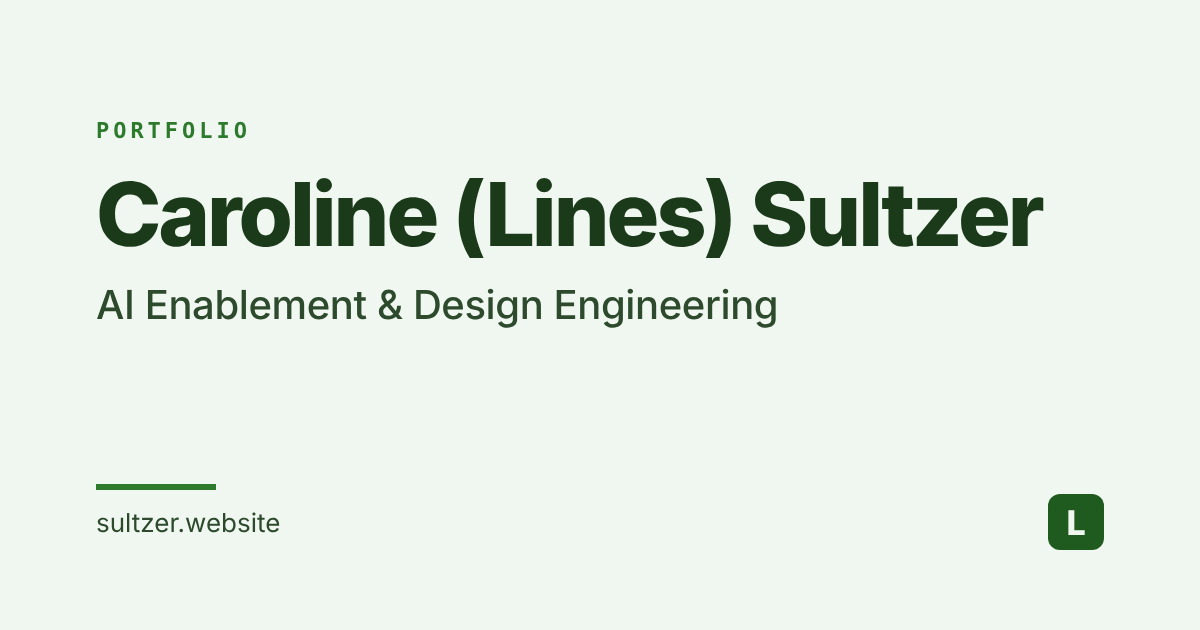
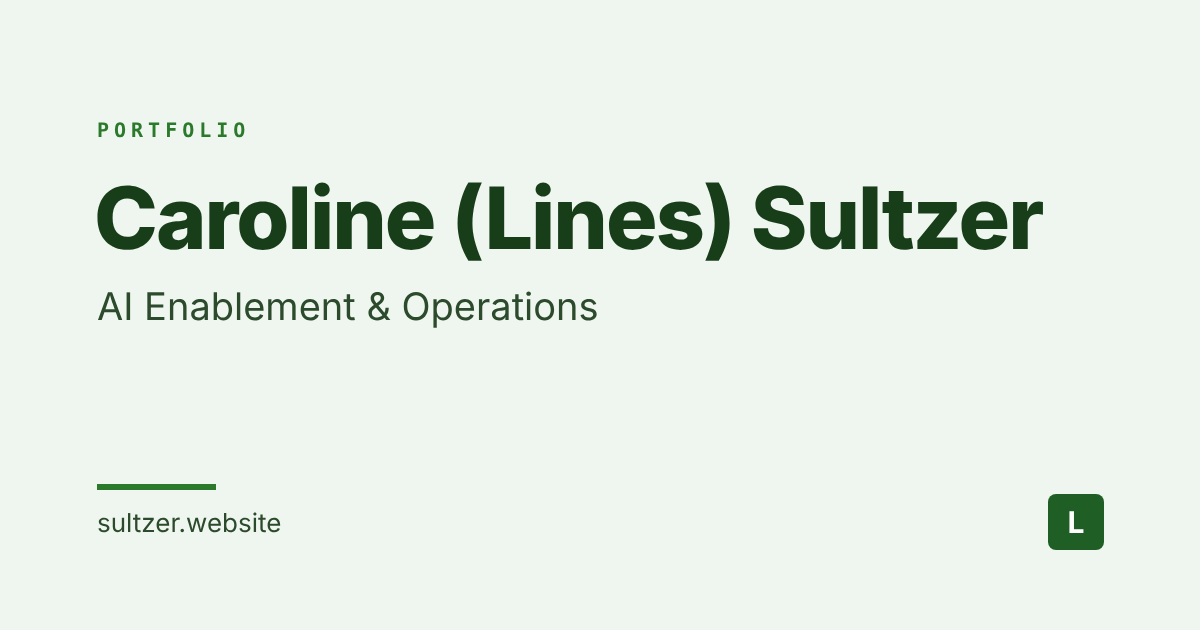
Reposition site as AI Enablement & Operations; open to remote and Pittsburgh hybrid
Claude-Session: https://claude.ai/code/session_01Awp34VfsDdoKSSqbVQi6wX

diff --git a/index.html b/index.html
@@ -7,18 +7,18 @@
         <link rel="preconnect" href="https://fonts.gstatic.com" crossorigin>
         <link href="https://fonts.googleapis.com/css2?family=Lato:wght@300;400;700;900&display=swap" rel="stylesheet">
         
-        <title>Caroline (Lines) Sultzer | AI Enablement &amp; Design Engineering</title>
-        <meta name="title" content="Caroline (Lines) Sultzer | AI Enablement &amp; Design Engineering" />
-        <meta name="description" content="Caroline (Lines) Sultzer helps teams use AI safely and builds the tools to do it. AI enablement, AI governance and accessible design engineering in React, Next.js and TypeScript." />
-        <meta name="keywords" content="Lines Sultzer, Caroline Sultzer, AI enablement, AI governance, design engineer, accessibility, WCAG, React, Next.js, TypeScript" />
+        <title>Caroline (Lines) Sultzer | AI Enablement &amp; Operations</title>
+        <meta name="title" content="Caroline (Lines) Sultzer | AI Enablement &amp; Operations" />
+        <meta name="description" content="Caroline (Lines) Sultzer helps teams use AI safely and builds the tools to do it. AI enablement, AI governance and operations for small teams, plus the tools to support them." />
+        <meta name="keywords" content="Lines Sultzer, Caroline Sultzer, AI enablement, AI governance, operations, accessibility, WCAG, React, Next.js, TypeScript" />
         <meta name="author" content="Caroline Lines Sultzer" />
         <meta name="robots" content="index, follow" />
         <link rel="canonical" href="https://sultzer.website/" />
         
         <meta property="og:type" content="website" />
         <meta property="og:url" content="https://sultzer.website/" />
-        <meta property="og:title" content="Lines Sultzer | Caroline Sultzer | AI Enablement &amp; Design Engineering" />
-        <meta property="og:description" content="Caroline (Lines) Sultzer helps teams use AI safely and builds the tools to do it. AI enablement, AI governance and accessible design engineering in React, Next.js and TypeScript." />
+        <meta property="og:title" content="Lines Sultzer | Caroline Sultzer | AI Enablement &amp; Operations" />
+        <meta property="og:description" content="Caroline (Lines) Sultzer helps teams use AI safely and builds the tools to do it. AI enablement, AI governance and operations for small teams, plus the tools to support them." />
         <meta property="og:site_name" content="Lines Sultzer Portfolio" />
         <link rel="icon" href="/favicon.svg" type="image/svg+xml" />
         <link rel="icon" href="/favicon.ico" sizes="any" />
@@ -26,13 +26,13 @@
         <meta property="og:image" content="https://sultzer.website/assets/images/og-image.png" />
         <meta property="og:image:width" content="1200" />
         <meta property="og:image:height" content="630" />
-        <meta property="og:image:alt" content="Caroline (Lines) Sultzer, AI Enablement and Design Engineering. sultzer.website" />
+        <meta property="og:image:alt" content="Caroline (Lines) Sultzer, AI Enablement and Operations. sultzer.website" />
         <meta name="twitter:image" content="https://sultzer.website/assets/images/og-image.png" />
         
         <meta name="twitter:card" content="summary_large_image" />
         <meta name="twitter:url" content="https://sultzer.website/" />
-        <meta name="twitter:title" content="Lines Sultzer | Caroline Sultzer | AI Enablement &amp; Design Engineering" />
-        <meta name="twitter:description" content="Caroline (Lines) Sultzer helps teams use AI safely and builds the tools to do it. AI enablement, AI governance and accessible design engineering in React, Next.js and TypeScript." />
+        <meta name="twitter:title" content="Lines Sultzer | Caroline Sultzer | AI Enablement &amp; Operations" />
+        <meta name="twitter:description" content="Caroline (Lines) Sultzer helps teams use AI safely and builds the tools to do it. AI enablement, AI governance and operations for small teams, plus the tools to support them." />
         
         <script type="application/ld+json">
         {
@@ -41,8 +41,8 @@
           "name": "Lines Sultzer",
           "alternateName": "Caroline Sultzer",
           "url": "https://sultzer.website",
-          "jobTitle": "AI Enablement & Design Engineering",
-          "description": "Caroline (Lines) Sultzer helps teams use AI safely and builds the tools to do it. AI enablement, AI governance and accessible design engineering in React, Next.js and TypeScript.",
+          "jobTitle": "AI Enablement & Operations",
+          "description": "Caroline (Lines) Sultzer helps teams use AI safely and builds the tools to do it. AI enablement, AI governance and operations for small teams, plus the tools to support them.",
           "email": "linessultzer@gmail.com",
           "sameAs": [
             "https://www.linkedin.com/in/lines-sultzer/",`
@@ -86,12 +86,12 @@
  
             <section class="hero" aria-labelledby="hero-heading">
                 <header class="hero__header">
-                    <h1 id="hero-heading" class="hero__title">Caroline (Lines) Sultzer <span class="hero__role">AI Enablement &amp; Design Engineering</span></h1>
-                    <p class="hero__subhead">I help teams use AI safely, and I build the tools to do it. I work in React, Next.js and TypeScript.</p>
+                    <h1 id="hero-heading" class="hero__title">Caroline (Lines) Sultzer <span class="hero__role">AI Enablement &amp; Operations</span></h1>
+                    <p class="hero__subhead">I help teams use AI safely, and I build the tools to do it. I run operations, data and AI rollout for small teams.</p>
                 </header>
                 <p class="hero__now"><span class="hero__now-label">Now</span>Leading AI governance at Dance/NYC and building a SaaS product for art galleries.</p>
                 <div class="hero__status-wrap">
-                    <span class="hero__status-tag">Open to Remote Roles</span>
+                    <span class="hero__status-tag">Open to remote and Pittsburgh hybrid roles</span>
                 </div>
                 <div class="hero__actions">
                     <a href="#work" class="btn btn--primary">View Work</a>
@@ -112,7 +112,7 @@
                 <h2 id="about-heading" class="home-section__title">About</h2>
                 <div class="about-intro__inner">
                     <div class="about-intro__bio">
-                        <p>I’m a design engineer working where AI meets real workflows. I build accessible interfaces and the systems that sit behind them.</p>
+                        <p>I work where AI meets real workflows. I build accessible tools and the systems that sit behind them.</p>
                         <p>At Dance/NYC I’m Operations Coordinator and I run the tech side of the org. That means writing our AI governance framework, leading the rollout on Claude, keeping our data clean, shipping UI updates and building the trackers and tools that let a small team scale.</p>
                         <p>For the last two years I’ve run inline/access, my own studio, and I’m building a SaaS product for art galleries from the ground up. I build in React, Vue and plain JavaScript, with a full-stack Java background in API design, PostgreSQL and backend architecture. I like taking a design from Figma all the way to semantic, WCAG-compliant code that ships.</p>
                         <p>I came to engineering from art and fabrication at Cooper Union, where I learned to build with my hands and troubleshoot whatever broke. Living with a disability is a big part of why I test for access first. I’m a Deque Digital Accessibility scholarship recipient and working toward my IAAP certification.</p>
@@ -125,7 +125,7 @@
 
             <section class="cta" aria-labelledby="cta-heading">
                 <h2 id="cta-heading" class="cta__title">Let's Connect.</h2>
-                <p class="cta__intro">I'm looking for remote design engineering and AI enablement roles where accessibility and real adoption matter.</p>
+                <p class="cta__intro">I'm looking for AI enablement and operations roles where accessibility and real adoption matter.</p>
                 <p class="cta__action">
                     <a href="mailto:linessultzer@gmail.com" class="cta__link">Send an Email<span class="cta__link-icon" aria-hidden="true">→</span></a>
                 </p>

diff --git a/about.html b/about.html
@@ -7,10 +7,10 @@
         <link rel="preconnect" href="https://fonts.gstatic.com" crossorigin>
         <link href="https://fonts.googleapis.com/css2?family=Lato:wght@300;400;700;900&display=swap" rel="stylesheet">
         
-        <title>About Lines Sultzer | Caroline Sultzer | AI Enablement &amp; Design Engineering</title>
-        <meta name="title" content="About Lines Sultzer | Caroline Sultzer | AI Enablement &amp; Design Engineering" />
-        <meta name="description" content="About Caroline (Lines) Sultzer: AI enablement and design engineering, AI governance at Dance/NYC, and accessible web work." />
-        <meta name="keywords" content="Lines Sultzer, Caroline Sultzer, AI enablement, AI governance, design engineer, accessibility, WCAG, React, Next.js, TypeScript" />
+        <title>About Lines Sultzer | Caroline Sultzer | AI Enablement &amp; Operations</title>
+        <meta name="title" content="About Lines Sultzer | Caroline Sultzer | AI Enablement &amp; Operations" />
+        <meta name="description" content="About Caroline (Lines) Sultzer: AI enablement and operations, AI governance at Dance/NYC, and accessible web work." />
+        <meta name="keywords" content="Lines Sultzer, Caroline Sultzer, AI enablement, AI governance, operations, accessibility, WCAG, React, Next.js, TypeScript" />
         <meta name="author" content="Lines Sultzer" />
         <meta name="robots" content="index, follow" />
         <link rel="canonical" href="https://sultzer.website/about" />
@@ -18,8 +18,8 @@
         <!-- Open Graph / Facebook -->
         <meta property="og:type" content="website" />
         <meta property="og:url" content="https://sultzer.website/about" />
-        <meta property="og:title" content="About Lines Sultzer | Caroline Sultzer | AI Enablement &amp; Design Engineering" />
-        <meta property="og:description" content="About Caroline (Lines) Sultzer: AI enablement and design engineering, AI governance at Dance/NYC, and accessible web work." />
+        <meta property="og:title" content="About Lines Sultzer | Caroline Sultzer | AI Enablement &amp; Operations" />
+        <meta property="og:description" content="About Caroline (Lines) Sultzer: AI enablement and operations, AI governance at Dance/NYC, and accessible web work." />
         <meta property="og:site_name" content="Lines Sultzer Portfolio" />
         <link rel="icon" href="/favicon.svg" type="image/svg+xml" />
         <link rel="icon" href="/favicon.ico" sizes="any" />
@@ -27,14 +27,14 @@
         <meta property="og:image" content="https://sultzer.website/assets/images/og-image.png" />
         <meta property="og:image:width" content="1200" />
         <meta property="og:image:height" content="630" />
-        <meta property="og:image:alt" content="Caroline (Lines) Sultzer, AI Enablement and Design Engineering. sultzer.website" />
+        <meta property="og:image:alt" content="Caroline (Lines) Sultzer, AI Enablement and Operations. sultzer.website" />
         <meta name="twitter:image" content="https://sultzer.website/assets/images/og-image.png" />
         
         <!-- Twitter -->
         <meta name="twitter:card" content="summary_large_image" />
         <meta name="twitter:url" content="https://sultzer.website/about" />
-        <meta name="twitter:title" content="About Lines Sultzer | Caroline Sultzer | AI Enablement &amp; Design Engineering" />
-        <meta name="twitter:description" content="About Caroline (Lines) Sultzer: AI enablement and design engineering, AI governance at Dance/NYC, and accessible web work." />
+        <meta name="twitter:title" content="About Lines Sultzer | Caroline Sultzer | AI Enablement &amp; Operations" />
+        <meta name="twitter:description" content="About Caroline (Lines) Sultzer: AI enablement and operations, AI governance at Dance/NYC, and accessible web work." />
         
         <!-- Structured Data -->
         <script type="application/ld+json">
@@ -44,8 +44,8 @@
           "name": "Lines Sultzer",
           "alternateName": "Caroline Sultzer",
           "url": "https://sultzer.website/about",
-          "jobTitle": "AI Enablement & Design Engineering",
-          "description": "About Caroline (Lines) Sultzer: AI enablement and design engineering, AI governance at Dance/NYC, and accessible web work.",
+          "jobTitle": "AI Enablement & Operations",
+          "description": "About Caroline (Lines) Sultzer: AI enablement and operations, AI governance at Dance/NYC, and accessible web work.",
           "email": "linessultzer@gmail.com",
           "sameAs": [
             "https://www.linkedin.com/in/lines-sultzer/",
@@ -85,7 +85,7 @@
                 <h1 id="about-heading" class="about-intro__title">About</h1>
                 <div class="about-intro__inner">
                     <div class="about-intro__bio">
-                        <p>I’m a design engineer working where AI meets real workflows. I build accessible interfaces and the systems that sit behind them.</p>
+                        <p>I work where AI meets real workflows. I build accessible tools and the systems that sit behind them.</p>
                         <p>At Dance/NYC I’m Operations Coordinator and I run the tech side of the org. That means writing our AI governance framework, leading the rollout on Claude, keeping our data clean, shipping UI updates and building the trackers and tools that let a small team scale.</p>
                         <p>For the last two years I’ve run inline/access, my own studio, and I’m building a SaaS product for art galleries from the ground up. I build in React, Vue and plain JavaScript, with a full-stack Java background in API design, PostgreSQL and backend architecture. I like taking a design from Figma all the way to semantic, WCAG-compliant code that ships.</p>
                         <p>I came to engineering from art and fabrication at Cooper Union, where I learned to build with my hands and troubleshoot whatever broke. Living with a disability is a big part of why I test for access first. I’m a Deque Digital Accessibility scholarship recipient and working toward my IAAP certification.</p>

diff --git a/work.html b/work.html
@@ -8,8 +8,8 @@
         <link href="https://fonts.googleapis.com/css2?family=Lato:wght@300;400;700;900&display=swap" rel="stylesheet">
         
         <!-- Primary Meta Tags -->
-        <title>Work Portfolio | Lines Sultzer | Caroline Sultzer | AI Enablement &amp; Design Engineering</title>
-        <meta name="title" content="Work Portfolio | Lines Sultzer | Caroline Sultzer | AI Enablement &amp; Design Engineering" />
+        <title>Work Portfolio | Lines Sultzer | Caroline Sultzer | AI Enablement &amp; Operations</title>
+        <meta name="title" content="Work Portfolio | Lines Sultzer | Caroline Sultzer | AI Enablement &amp; Operations" />
         <meta name="description" content="Portfolio of digital projects by Lines Sultzer (Caroline Sultzer) - Full-stack and front-end engineering projects exploring accessibility, interaction design, and modern web development." />
         <meta name="keywords" content="Lines Sultzer, Caroline Sultzer, portfolio, projects, full-stack developer, front-end developer, JavaScript projects, React projects, web development, accessible web design, software engineering portfolio" />
         <meta name="author" content="Lines Sultzer" />
@@ -19,7 +19,7 @@
         <!-- Open Graph / Facebook -->
         <meta property="og:type" content="website" />
         <meta property="og:url" content="https://sultzer.website/work" />
-        <meta property="og:title" content="Work Portfolio | Lines Sultzer | Caroline Sultzer | AI Enablement &amp; Design Engineering" />
+        <meta property="og:title" content="Work Portfolio | Lines Sultzer | Caroline Sultzer | AI Enablement &amp; Operations" />
         <meta property="og:description" content="Portfolio of digital projects exploring accessibility, interaction design, and modern front-end engineering." />
         <meta property="og:site_name" content="Lines Sultzer Portfolio" />
         <link rel="icon" href="/favicon.svg" type="image/svg+xml" />
@@ -28,13 +28,13 @@
         <meta property="og:image" content="https://sultzer.website/assets/images/og-image.png" />
         <meta property="og:image:width" content="1200" />
         <meta property="og:image:height" content="630" />
-        <meta property="og:image:alt" content="Caroline (Lines) Sultzer, AI Enablement and Design Engineering. sultzer.website" />
+        <meta property="og:image:alt" content="Caroline (Lines) Sultzer, AI Enablement and Operations. sultzer.website" />
         <meta name="twitter:image" content="https://sultzer.website/assets/images/og-image.png" />
         
         <!-- Twitter -->
         <meta name="twitter:card" content="summary_large_image" />
         <meta name="twitter:url" content="https://sultzer.website/work" />
-        <meta name="twitter:title" content="Work Portfolio | Lines Sultzer | Caroline Sultzer | AI Enablement &amp; Design Engineering" />
+        <meta name="twitter:title" content="Work Portfolio | Lines Sultzer | Caroline Sultzer | AI Enablement &amp; Operations" />
         <meta name="twitter:description" content="Portfolio of digital projects exploring accessibility, interaction design, and modern front-end engineering." />
         
         <!-- Structured Data -->
@@ -50,7 +50,7 @@
             "name": "Lines Sultzer",
             "alternateName": "Caroline Sultzer",
             "url": "https://sultzer.website",
-            "jobTitle": "AI Enablement & Design Engineering"
+            "jobTitle": "AI Enablement & Operations"
           }
         }
         </script>

diff --git a/vending-machine.html b/vending-machine.html
@@ -7,8 +7,8 @@
         <link rel="preconnect" href="https://fonts.gstatic.com" crossorigin>
         <link href="https://fonts.googleapis.com/css2?family=Lato:wght@300;400;700;900&display=swap" rel="stylesheet">
         
-        <title>Vending Machine Web App Case Study | Lines Sultzer | Caroline Sultzer | AI Enablement &amp; Design Engineering</title>
-        <meta name="title" content="Vending Machine Web App Case Study | Lines Sultzer | Caroline Sultzer | AI Enablement &amp; Design Engineering" />
+        <title>Vending Machine Web App Case Study | Lines Sultzer | Caroline Sultzer | AI Enablement &amp; Operations</title>
+        <meta name="title" content="Vending Machine Web App Case Study | Lines Sultzer | Caroline Sultzer | AI Enablement &amp; Operations" />
         <meta name="description" content="Case study: Vending Machine Web App by Lines Sultzer (Caroline Sultzer) - A full-stack CLI application demonstrating clean backend design, multi-language fluency (Java & Python), and system refactoring across stacks." />
         <meta name="keywords" content="Lines Sultzer, Caroline Sultzer, vending machine, case study, full-stack development, Java, Python, CLI application, backend engineering, Tech Elevator, portfolio" />
         <meta name="author" content="Lines Sultzer" />
@@ -26,7 +26,7 @@
         <meta property="og:image" content="https://sultzer.website/assets/images/og-image.png" />
         <meta property="og:image:width" content="1200" />
         <meta property="og:image:height" content="630" />
-        <meta property="og:image:alt" content="Caroline (Lines) Sultzer, AI Enablement and Design Engineering. sultzer.website" />
+        <meta property="og:image:alt" content="Caroline (Lines) Sultzer, AI Enablement and Operations. sultzer.website" />
         <meta name="twitter:image" content="https://sultzer.website/assets/images/og-image.png" />
         
         <meta name="twitter:card" content="summary_large_image" />
@@ -46,7 +46,7 @@
             "name": "Lines Sultzer",
             "alternateName": "Caroline Sultzer",
             "url": "https://sultzer.website",
-            "jobTitle": "AI Enablement & Design Engineering"
+            "jobTitle": "AI Enablement & Operations"
           },
           "publisher": {
             "@type": "Person",

diff --git a/accex.html b/accex.html
@@ -7,8 +7,8 @@
         <link rel="preconnect" href="https://fonts.gstatic.com" crossorigin>
         <link href="https://fonts.googleapis.com/css2?family=Lato:wght@300;400;700;900&display=swap" rel="stylesheet">
         
-        <title>ACCEX Case Study | Lines Sultzer | Caroline Sultzer | AI Enablement &amp; Design Engineering</title>
-        <meta name="title" content="ACCEX Case Study | Lines Sultzer | Caroline Sultzer | AI Enablement &amp; Design Engineering" />
+        <title>ACCEX Case Study | Lines Sultzer | Caroline Sultzer | AI Enablement &amp; Operations</title>
+        <meta name="title" content="ACCEX Case Study | Lines Sultzer | Caroline Sultzer | AI Enablement &amp; Operations" />
         <meta name="description" content="Case study: ACCEX by Lines Sultzer (Caroline Sultzer) - A reactive color contrast tool bridging color theory and WCAG 2.2. Built with Vite and Vue for digital inclusion and sub-100ms load." />
         <meta name="keywords" content="Lines Sultzer, Caroline Sultzer, ACCEX, case study, front-end development, Vite, Vue, TypeScript, web performance, accessibility, portfolio" />
         <meta name="author" content="Lines Sultzer" />
@@ -26,7 +26,7 @@
         <meta property="og:image" content="https://sultzer.website/assets/images/og-image.png" />
         <meta property="og:image:width" content="1200" />
         <meta property="og:image:height" content="630" />
-        <meta property="og:image:alt" content="Caroline (Lines) Sultzer, AI Enablement and Design Engineering. sultzer.website" />
+        <meta property="og:image:alt" content="Caroline (Lines) Sultzer, AI Enablement and Operations. sultzer.website" />
         <meta name="twitter:image" content="https://sultzer.website/assets/images/og-image.png" />
         
         <meta name="twitter:card" content="summary_large_image" />
@@ -46,7 +46,7 @@
             "name": "Lines Sultzer",
             "alternateName": "Caroline Sultzer",
             "url": "https://sultzer.website",
-            "jobTitle": "AI Enablement & Design Engineering"
+            "jobTitle": "AI Enablement & Operations"
           },
           "publisher": {
             "@type": "Person",

diff --git a/nomineat.html b/nomineat.html
@@ -7,8 +7,8 @@
         <link rel="preconnect" href="https://fonts.gstatic.com" crossorigin>
         <link href="https://fonts.googleapis.com/css2?family=Lato:wght@300;400;700;900&display=swap" rel="stylesheet">
         
-        <title>NominEat Case Study | Lines Sultzer | Caroline Sultzer | AI Enablement &amp; Design Engineering</title>
-        <meta name="title" content="NominEat Case Study | Lines Sultzer | Caroline Sultzer | AI Enablement &amp; Design Engineering" />
+        <title>NominEat Case Study | Lines Sultzer | Caroline Sultzer | AI Enablement &amp; Operations</title>
+        <meta name="title" content="NominEat Case Study | Lines Sultzer | Caroline Sultzer | AI Enablement &amp; Operations" />
         <meta name="description" content="Case study: NominEat by Lines Sultzer (Caroline Sultzer) - Full-stack group voting web app. Java Spring Boot, Vue.js, PostgreSQL, Yelp Fusion API. Capstone project." />
         <meta name="keywords" content="Lines Sultzer, Caroline Sultzer, NominEat, case study, full-stack, Java, Spring Boot, Vue, PostgreSQL, Yelp API, portfolio" />
         <meta name="author" content="Lines Sultzer" />
@@ -26,7 +26,7 @@
         <meta property="og:image" content="https://sultzer.website/assets/images/og-image.png" />
         <meta property="og:image:width" content="1200" />
         <meta property="og:image:height" content="630" />
-        <meta property="og:image:alt" content="Caroline (Lines) Sultzer, AI Enablement and Design Engineering. sultzer.website" />
+        <meta property="og:image:alt" content="Caroline (Lines) Sultzer, AI Enablement and Operations. sultzer.website" />
         <meta name="twitter:image" content="https://sultzer.website/assets/images/og-image.png" />
         
         <meta name="twitter:card" content="summary_large_image" />
@@ -46,7 +46,7 @@
             "name": "Lines Sultzer",
             "alternateName": "Caroline Sultzer",
             "url": "https://sultzer.website",
-            "jobTitle": "AI Enablement & Design Engineering"
+            "jobTitle": "AI Enablement & Operations"
           },
           "publisher": {
             "@type": "Person",

diff --git a/ai-governance.html b/ai-governance.html
@@ -26,7 +26,7 @@
         <meta property="og:image" content="https://sultzer.website/assets/images/og-image.png" />
         <meta property="og:image:width" content="1200" />
         <meta property="og:image:height" content="630" />
-        <meta property="og:image:alt" content="Caroline (Lines) Sultzer, AI Enablement and Design Engineering. sultzer.website" />
+        <meta property="og:image:alt" content="Caroline (Lines) Sultzer, AI Enablement and Operations. sultzer.website" />
         <meta name="twitter:image" content="https://sultzer.website/assets/images/og-image.png" />
         
         <meta name="twitter:card" content="summary_large_image" />
@@ -46,7 +46,7 @@
             "name": "Lines Sultzer",
             "alternateName": "Caroline Sultzer",
             "url": "https://sultzer.website",
-            "jobTitle": "AI Enablement & Design Engineering"
+            "jobTitle": "AI Enablement & Operations"
           },
           "publisher": {
             "@type": "Person",

diff --git a/deroche.html b/deroche.html
@@ -26,7 +26,7 @@
         <meta property="og:image" content="https://sultzer.website/assets/images/og-image.png" />
         <meta property="og:image:width" content="1200" />
         <meta property="og:image:height" content="630" />
-        <meta property="og:image:alt" content="Caroline (Lines) Sultzer, AI Enablement and Design Engineering. sultzer.website" />
+        <meta property="og:image:alt" content="Caroline (Lines) Sultzer, AI Enablement and Operations. sultzer.website" />
         <meta name="twitter:image" content="https://sultzer.website/assets/images/og-image.png" />
         
         <meta name="twitter:card" content="summary_large_image" />
@@ -46,7 +46,7 @@
             "name": "Lines Sultzer",
             "alternateName": "Caroline Sultzer",
             "url": "https://sultzer.website",
-            "jobTitle": "AI Enablement & Design Engineering"
+            "jobTitle": "AI Enablement & Operations"
           },
           "publisher": {
             "@type": "Person",

diff --git a/ia-studio.html b/ia-studio.html
@@ -26,7 +26,7 @@
         <meta property="og:image" content="https://sultzer.website/assets/images/og-image.png" />
         <meta property="og:image:width" content="1200" />
         <meta property="og:image:height" content="630" />
-        <meta property="og:image:alt" content="Caroline (Lines) Sultzer, AI Enablement and Design Engineering. sultzer.website" />
+        <meta property="og:image:alt" content="Caroline (Lines) Sultzer, AI Enablement and Operations. sultzer.website" />
         <meta name="twitter:image" content="https://sultzer.website/assets/images/og-image.png" />
         
         <meta name="twitter:card" content="summary_large_image" />
@@ -46,7 +46,7 @@
             "name": "Lines Sultzer",
             "alternateName": "Caroline Sultzer",
             "url": "https://sultzer.website",
-            "jobTitle": "AI Enablement & Design Engineering"
+            "jobTitle": "AI Enablement & Operations"
           },
           "publisher": {
             "@type": "Person",

diff --git a/portfolio-site.html b/portfolio-site.html
@@ -26,7 +26,7 @@
         <meta property="og:image" content="https://sultzer.website/assets/images/og-image.png" />
         <meta property="og:image:width" content="1200" />
         <meta property="og:image:height" content="630" />
-        <meta property="og:image:alt" content="Caroline (Lines) Sultzer, AI Enablement and Design Engineering. sultzer.website" />
+        <meta property="og:image:alt" content="Caroline (Lines) Sultzer, AI Enablement and Operations. sultzer.website" />
         <meta name="twitter:image" content="https://sultzer.website/assets/images/og-image.png" />
         
         <meta name="twitter:card" content="summary_large_image" />
@@ -46,7 +46,7 @@
             "name": "Lines Sultzer",
             "alternateName": "Caroline Sultzer",
             "url": "https://sultzer.website",
-            "jobTitle": "AI Enablement & Design Engineering"
+            "jobTitle": "AI Enablement & Operations"
           },
           "publisher": {
             "@type": "Person",

diff --git a/trust-circle.html b/trust-circle.html
@@ -26,7 +26,7 @@
         <meta property="og:image" content="https://sultzer.website/assets/images/og-image.png" />
         <meta property="og:image:width" content="1200" />
         <meta property="og:image:height" content="630" />
-        <meta property="og:image:alt" content="Caroline (Lines) Sultzer, AI Enablement and Design Engineering. sultzer.website" />
+        <meta property="og:image:alt" content="Caroline (Lines) Sultzer, AI Enablement and Operations. sultzer.website" />
         <meta name="twitter:image" content="https://sultzer.website/assets/images/og-image.png" />
         
         <meta name="twitter:card" content="summary_large_image" />
@@ -46,7 +46,7 @@
             "name": "Lines Sultzer",
             "alternateName": "Caroline Sultzer",
             "url": "https://sultzer.website",
-            "jobTitle": "AI Enablement & Design Engineering"
+            "jobTitle": "AI Enablement & Operations"
           },
           "publisher": {
             "@type": "Person",
